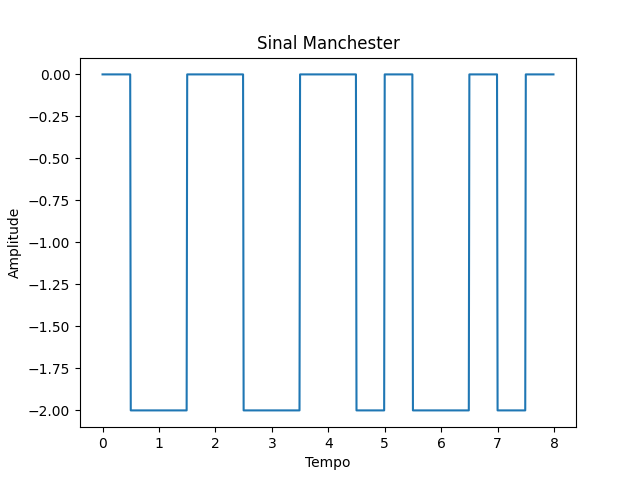
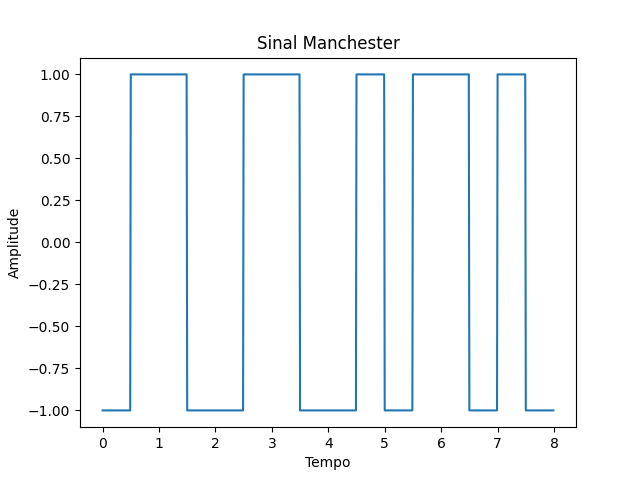
fix/finalmente conseguir arrumar o erro do manchister e do bipolar

diff --git a/Modulacao/digital.py b/Modulacao/digital.py
@@ -7,11 +7,11 @@ from math import floor
 class SignalGenerator:
     def __init__(self, bit_stream, V):
         self.bit_stream = bit_stream
-        self.v0 = -V
-        self.v1 = V
-        self.size = len(bit_stream)
+        self.Vmin = -V
+        self.Vmax = V
+        self.size = 0
         self.pointsNumber = 100
-        self.time = np.arange(0, self.size, 1/self.pointsNumber)
+        self.time = 0
 
     def setBitStream(self, bit_stream):
         self.bit_stream = bit_stream
@@ -34,9 +34,9 @@ class SignalGenerator:
 
         for i in range(self.size):
             if self.bit_stream[i] == 1:
-                content = self.v1
+                content = self.Vmax
             else:
-              content = self.v0
+              content = self.Vmin
             for j in range(self.pointsNumber):
                 signal[aux] = content
                 aux += 1
@@ -44,31 +44,46 @@ class SignalGenerator:
         return self.time, signal
 
     def Clock(self):
+
         signal = np.zeros(self.size * 100).astype(int)
-        content = self.v1
+
+        content = self.Vmax
         for i in range(self.size * 100):
             if i % 50 == 0:
-                content = self.v1 if content == self.v0 else self.v0
+                content = self.Vmax if content == self.Vmin else self.Vmin
             signal[i] = content
         return signal
 
     def Manchester(self):
+
         n, y = self.NRZ()
         clock = self.Clock()
+
         signal = np.zeros(self.size * 100).astype(int)
         for i in range(len(y)):
-            signal[i] = y[i] ^ clock[i]
+            signal[i] = self.Vmin if (y[i] ^ clock[i]) == 0 else self.Vmax
         return n, signal
 
     def Bipolar(self):
+
         signal = np.zeros(self.size * 100).astype(int)
-        content = self.v0
+        content = self.Vmin
+        multiplicador = 1
         aux = 0
 
         for i in range(self.size):
-            content = self.v1 if self.bit_stream[i] == 1 and content == self.v0 else self.v0
+            
+            if ((self.bit_stream[i] == 1) and (content == self.Vmin)):
+                multiplicador = self.Vmax
+                content = self.Vmax
+            elif ((self.bit_stream[i] == 1) and (content == self.Vmax)):
+                multiplicador = self.Vmin
+                content = self.Vmin
+            else:
+                multiplicador = 0
+
             for j in range(100):
-                signal[aux] = content
+                signal[aux] = multiplicador
                 aux += 1
 
         return self.time, signal
